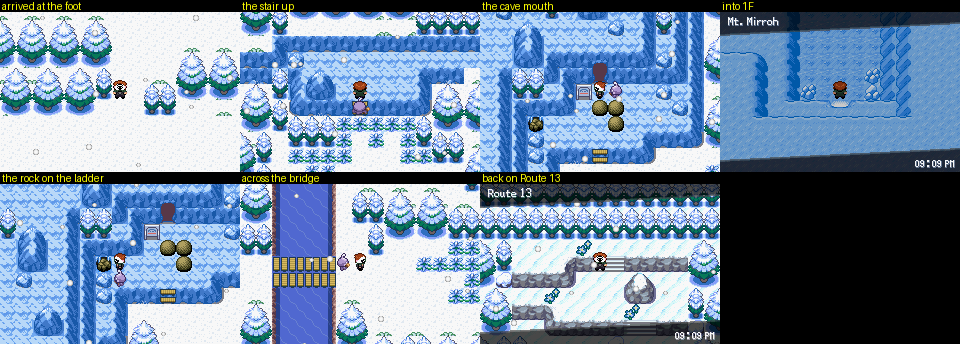
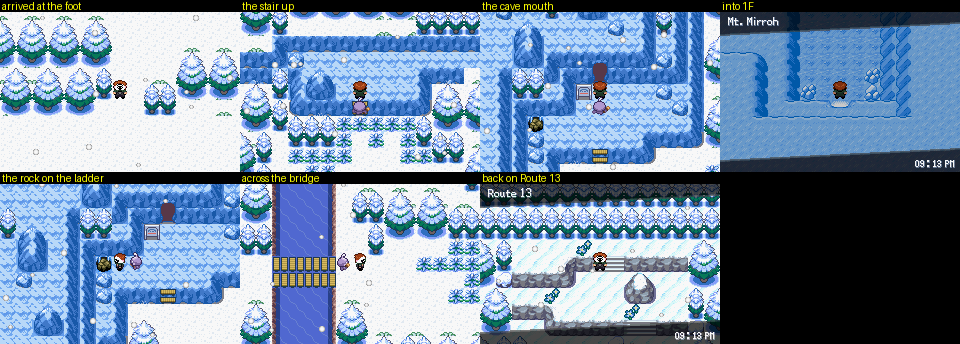
Mt. Mirroh exterior: Strength boulders removed from the cave mouth
Claude-Session: https://claude.ai/code/session_01FHXnfqnedTHLf5QFbB3MCU

diff --git a/tools/art/mt_mirroh/build_exterior.py b/tools/art/mt_mirroh/build_exterior.py
@@ -7,7 +7,7 @@ Ways in and out:
     (Route 13's own triggers: tools/art/route13/build_route13.py); no map connection (each has its own primary);
   - warp 0: the cave mouth (13, 10) into 1F (its warp 3; 1F's way out (55, 57) points back here, warp 0);
   - warp 1: the secret ladder (9, 13) down to B1F (its warp 0; B1F's way up points back here), under a Rock Smash rock.
-Objects: Dreamstone Mysteries' three Strength boulders by the cave mouth; the Rock Smash rock on the ladder. Its other
+Objects: the Rock Smash rock on the ladder (Dreamstone Mysteries' Strength boulders by the cave mouth removed, user). Its other
 people and items are stage 2 and 6 (left out here). Signs: the one by the cave mouth.
 Usage: python3 tools/art/mt_mirroh/build_exterior.py   (then build_route13.py; then make)
 """
@@ -37,7 +37,7 @@ def main():
         return int(beh[y, x])
     r = MB.build(img, None, None, W, H, walk, b)
     j = json.load(open(os.path.join(C, 'data/maps', NAME, 'map.json')))
-    keep_objs = [o for o in j['object_events'] if o['graphics_id'] == 'OBJ_EVENT_GFX_PUSHABLE_BOULDER']
+    keep_objs = []                       # (DM's Strength boulders by the mouth: gone, user 2026-11-23)
     rock = {'graphics_id': 'OBJ_EVENT_GFX_BREAKABLE_ROCK', 'x': E.SECRET[0], 'y': E.SECRET[1], 'elevation': 3,
             'movement_type': 'MOVEMENT_TYPE_LOOK_AROUND', 'movement_range_x': 0, 'movement_range_y': 0,
             'trainer_type': 'TRAINER_TYPE_NONE', 'trainer_sight_or_berry_tree_id': '0', 'script': 'EventScript_RockSmash', 'flag': '0'}

diff --git a/bible/20_chapter1_build.md b/bible/20_chapter1_build.md
@@ -204,7 +204,7 @@ Chapter 1 is the template: once its foundations (mechanics, maps, buildings, NPC
     - **Walked in the emulator** both ways: Hollow Hill → Mirroh Gate → hallway → Lower → stairs → Upper → north-west hallway (turned back) → skull gate → grounds → the lake and back, then all the way down again to Hollow Hill (`assets/mirroh_reference/ingame_mirroh_tour.png`).
     - Lamps, benches and snow flowers are solid. The reflecting ice is plain floor for now.
   - **Mt. Mirroh and Mirroh Peak, decided (user 2026-11-23):** **three maps: the outdoor climb, one cave floor, the summit.** The climb carries the Sword Cult trainers and, off the path, the hidden camp where acolytes torture a captured Beads cultist (8a); the cave floor runs through the mountain and holds **the scarred site of Alaric's Ting-Lu ritual** two years ago (bible 12); the summit plateau is the stage for Baradus, the hurt Eden, the shiny Crabominable and Kimaris's arrival (8b-8c). **The look (user):** a combination of Route 13's art (MonoMyth's northern routes and Fort Elderflower), **MonoMyth's mountains (like Mt. Thunder)**, **Dreamstone Mysteries' snowy and icy mountain terrain**, and **Crown's, if it has any**. **Clarified by the user the same evening: Mt. Mirroh is an expansion of Dreamstone Mysteries' own Mt. Mirroh.** Its overall design and layout (the exterior valley, the caves `MirrohInterior_1F/2F/B1F`, the Peak) are kept as the basis and expanded and re-dressed in the combined art, not replaced by a new design. (So the earlier "replaced, deleted later" applies only to whatever of the old maps the expansion leaves unused.)
-    - **Dreamstone Mysteries' Mt. Mirroh, as found (2026-11-23; `assets/mt_mirroh_reference/dm_mt_mirroh_overview.png`, exits marked):** **the exterior** (`MtMirrohExterior`, 60x80): a river valley climbing from Mirroh Base Camp at its foot (a map connection), bridges and pinewoods, a pushable-boulder puzzle at its head beside **the cave mouth** (13,10) **and a fighting dojo** (41,9); a **lower cave mouth** (11,65) into B1F. **1F** (60x60, an ice cave): **a rest stop with a nurse** (41,46), boulder puzzles, plank bridges, three ways up to **2F** (60x60, a loop of trainers and a boulder puzzle), **the exit onto the Peak** (3,12) with two Magma members beside it, and an exit to Lily Pond (a later area). **B1F** (60x80): one great icy hall reached from the lower mouth (Winterlily Hollow, later, warps into it). **The Peak** (`MirrohPeak`, 50x110): a pinewood snowfield at its foot (from 1F), terraced ice cliffs climbed past Magma grunts, **a long bridge across a frozen lake to the summit**, where huts stand and DM's climax took place (Maxie, a Deoxys triangle); an exit east to Winterlily Hollow (later). **The expansion's flow, decided by the user 2026-11-23:** **the exterior** (the river climb; **the fighting dojo removed**) leads into **1F**, where the player meets a few hikers and enemy trainers and, **near the stairs up to 2F, comes upon Sword Cult acolytes torturing a captured Beads cultist (8a)**: **the inciting incident** that drives the player to explore further, alongside the search for the first Dreamstone Shard. **2F is where the player finds the Dreamstone Shard.** From 2F, **the Peak**: at the summit (**abandoned ruins**: old stone huts and a broken shrine, where rumours placed the Shard) the player **beats the Sword Cult's unit boss there, a cardinal cultist**; **Baradus swoops in and kills him in front of the player for losing**: **his Crabominable crushes the cardinal, leaving a mangled corpse**, and then Baradus turns on the player (the curbstomp, 8b). Meant to make a big impact: how no-nonsense, ruthless and dangerous Baradus is. (The rest of Beat 8 stands unless the user changes it: the hurt Eden, Kimaris's arrival, 8d's aftermath.) **Alaric's Ting-Lu ritual site is B1F** (user 2026-11-23, correcting the earlier "delete B1F": "technically a B1F you need to make where the Ting-Lu ritual took place, but sealed in Chapter 1 and you can't access it"): **a ladder down beside the exterior's cave mouth, covered by a Rock Smash rock** (user 2026-11-23: right near the main entrance into the mountain; it replaces the earlier "caved-in spot on 1F"), broken open later with Rock Smash (a side quest later in the game), leads down to it. **B1F is made in stage 1** (its look: the scarred ritual site, expanding DM's B1F great icy hall) **and is unreachable in Chapter 1**; the exterior's lower cave mouth into it is removed (the only way in is the 1F cave-in); Winterlily Hollow's warps into it are settled when that later area is done. **Eden and Kimaris close the Peak scene as written** (user 2026-11-23). **The exterior, mock v1 (2026-11-23; `tools/art/mt_mirroh/exterior_mock.py`, `assets/mt_mirroh_reference/exterior_mock_v1.png`, beside DM's: `exterior_dm_vs_mock_v1.png`):** DM's own picture and collision as the base, so its layout stays exactly (its blue ice cliffs and plateaus, river, falls, bridges, stairs, meadows, the cave mouth at the head, the boulders); its pines become Route 13's (Fort Elderflower's, whole trees, staggered), its tall grass Route 13's ice grass, its stray green shrubs gone; the dojo pinewood, **Dreamstone Mysteries' drilling machine by the cave mouth removed** (user 2026-11-23), the lower cave mouth rock, the top edge closed; reachable from the foot path to the cave mouth. **Crossing without Surf (user 2026-11-23: "you need a bridge right here, otherwise it's impossible to get through the route without something like Surf"):** Dreamstone Mysteries' route from the foot drops down its one-way ledge (31-33,52) onto the river's east bank and then needed Surf; **a plank bridge** (DM's own, copied from its upper crossing) now spans the river at rows 55-56 (x 16-19). Since the ledge is one-way and nothing else led back to the foot (and Route 13), **a stair is cut into the ice band just north of the foot** (37,45; DM's own band stair) up onto the plateau above the meadow: the way back, and a second way up (**user 2026-11-23: keep both**; the ledge, meadow and bridge are the longer way round). Checked both ways: foot to cave mouth, and cave mouth back to the foot, with water counted as impassable. **The secret way down to B1F (user 2026-11-23: "right near the main entrance going into Mt. Mirroh proper"):** a ladder hole in the ice at (9,13), **where the user marked it on a screenshot**: the open ice west of the cave mouth, above two rocks against the cliff (Dreamstone Mysteries' own ladder hole from its 1F, cut onto the ice; a first try at (11,11) by the signpost was wrong), **covered by a Rock Smash rock** (an object); Rock Smash comes later in the game, so in Chapter 1 it stays shut (`assets/mt_mirroh_reference/exterior_secret_ladder.png`). **Built into the game and walked (2026-11-23; `tools/art/mt_mirroh/build_exterior.py`, walk `tools/playtest/mt_mirroh_exterior_walk.py`, `assets/mt_mirroh_reference/ingame_exterior_walk.png`):** `MAP_MT_MIRROH_EXTERIOR` keeps Dreamstone Mysteries' map id and name, redrawn on its own tileset pair (6 palettes, 202 tiles). **Route 13's Mt. Mirroh exit (its stair's top, x 8-9) fades onto the foot path (x 38-39)**, and the foot fades back (no map connection; the old one to Mirroh Base Camp is gone). Warp 0: the cave mouth into 1F (1F's way out points back to it); warp 1: the secret ladder to B1F, under the Rock Smash rock (an object; `EventScript_RockSmash`); DM's three Strength boulders kept; the signpost by the mouth kept; DM's other people and items left for stages 2 and 6. Weather: snow. **DM's wild encounters on the exterior (levels 26-30) were removed**: far above Chapter 1's level and stage 5's job, as on Route 13 (none yet). Walked in the game: Route 13 to the foot, up the stair, to the cave mouth, into 1F and out, the rock on the ladder, across the bridge, down the ledge, back to Route 13. Art reference for the expansion: **MonoMyth's Mt. Thunder** (its mapsecs 59, 73, 126: pale-blue ice caves, snowfields with pines, a diagonal mountain face, a summit; `assets/mt_mirroh_reference/monomyth_mt_thunder_maps.png`).
+    - **Dreamstone Mysteries' Mt. Mirroh, as found (2026-11-23; `assets/mt_mirroh_reference/dm_mt_mirroh_overview.png`, exits marked):** **the exterior** (`MtMirrohExterior`, 60x80): a river valley climbing from Mirroh Base Camp at its foot (a map connection), bridges and pinewoods, a pushable-boulder puzzle at its head beside **the cave mouth** (13,10) **and a fighting dojo** (41,9); a **lower cave mouth** (11,65) into B1F. **1F** (60x60, an ice cave): **a rest stop with a nurse** (41,46), boulder puzzles, plank bridges, three ways up to **2F** (60x60, a loop of trainers and a boulder puzzle), **the exit onto the Peak** (3,12) with two Magma members beside it, and an exit to Lily Pond (a later area). **B1F** (60x80): one great icy hall reached from the lower mouth (Winterlily Hollow, later, warps into it). **The Peak** (`MirrohPeak`, 50x110): a pinewood snowfield at its foot (from 1F), terraced ice cliffs climbed past Magma grunts, **a long bridge across a frozen lake to the summit**, where huts stand and DM's climax took place (Maxie, a Deoxys triangle); an exit east to Winterlily Hollow (later). **The expansion's flow, decided by the user 2026-11-23:** **the exterior** (the river climb; **the fighting dojo removed**) leads into **1F**, where the player meets a few hikers and enemy trainers and, **near the stairs up to 2F, comes upon Sword Cult acolytes torturing a captured Beads cultist (8a)**: **the inciting incident** that drives the player to explore further, alongside the search for the first Dreamstone Shard. **2F is where the player finds the Dreamstone Shard.** From 2F, **the Peak**: at the summit (**abandoned ruins**: old stone huts and a broken shrine, where rumours placed the Shard) the player **beats the Sword Cult's unit boss there, a cardinal cultist**; **Baradus swoops in and kills him in front of the player for losing**: **his Crabominable crushes the cardinal, leaving a mangled corpse**, and then Baradus turns on the player (the curbstomp, 8b). Meant to make a big impact: how no-nonsense, ruthless and dangerous Baradus is. (The rest of Beat 8 stands unless the user changes it: the hurt Eden, Kimaris's arrival, 8d's aftermath.) **Alaric's Ting-Lu ritual site is B1F** (user 2026-11-23, correcting the earlier "delete B1F": "technically a B1F you need to make where the Ting-Lu ritual took place, but sealed in Chapter 1 and you can't access it"): **a ladder down beside the exterior's cave mouth, covered by a Rock Smash rock** (user 2026-11-23: right near the main entrance into the mountain; it replaces the earlier "caved-in spot on 1F"), broken open later with Rock Smash (a side quest later in the game), leads down to it. **B1F is made in stage 1** (its look: the scarred ritual site, expanding DM's B1F great icy hall) **and is unreachable in Chapter 1**; the exterior's lower cave mouth into it is removed (the only way in is the 1F cave-in); Winterlily Hollow's warps into it are settled when that later area is done. **Eden and Kimaris close the Peak scene as written** (user 2026-11-23). **The exterior, mock v1 (2026-11-23; `tools/art/mt_mirroh/exterior_mock.py`, `assets/mt_mirroh_reference/exterior_mock_v1.png`, beside DM's: `exterior_dm_vs_mock_v1.png`):** DM's own picture and collision as the base, so its layout stays exactly (its blue ice cliffs and plateaus, river, falls, bridges, stairs, meadows, the cave mouth at the head, the boulders); its pines become Route 13's (Fort Elderflower's, whole trees, staggered), its tall grass Route 13's ice grass, its stray green shrubs gone; the dojo pinewood, **Dreamstone Mysteries' drilling machine by the cave mouth removed** (user 2026-11-23), the lower cave mouth rock, the top edge closed; reachable from the foot path to the cave mouth. **Crossing without Surf (user 2026-11-23: "you need a bridge right here, otherwise it's impossible to get through the route without something like Surf"):** Dreamstone Mysteries' route from the foot drops down its one-way ledge (31-33,52) onto the river's east bank and then needed Surf; **a plank bridge** (DM's own, copied from its upper crossing) now spans the river at rows 55-56 (x 16-19). Since the ledge is one-way and nothing else led back to the foot (and Route 13), **a stair is cut into the ice band just north of the foot** (37,45; DM's own band stair) up onto the plateau above the meadow: the way back, and a second way up (**user 2026-11-23: keep both**; the ledge, meadow and bridge are the longer way round). Checked both ways: foot to cave mouth, and cave mouth back to the foot, with water counted as impassable. **The secret way down to B1F (user 2026-11-23: "right near the main entrance going into Mt. Mirroh proper"):** a ladder hole in the ice at (9,13), **where the user marked it on a screenshot**: the open ice west of the cave mouth, above two rocks against the cliff (Dreamstone Mysteries' own ladder hole from its 1F, cut onto the ice; a first try at (11,11) by the signpost was wrong), **covered by a Rock Smash rock** (an object); Rock Smash comes later in the game, so in Chapter 1 it stays shut (`assets/mt_mirroh_reference/exterior_secret_ladder.png`). **Built into the game and walked (2026-11-23; `tools/art/mt_mirroh/build_exterior.py`, walk `tools/playtest/mt_mirroh_exterior_walk.py`, `assets/mt_mirroh_reference/ingame_exterior_walk.png`):** `MAP_MT_MIRROH_EXTERIOR` keeps Dreamstone Mysteries' map id and name, redrawn on its own tileset pair (6 palettes, 202 tiles). **Route 13's Mt. Mirroh exit (its stair's top, x 8-9) fades onto the foot path (x 38-39)**, and the foot fades back (no map connection; the old one to Mirroh Base Camp is gone). Warp 0: the cave mouth into 1F (1F's way out points back to it); warp 1: the secret ladder to B1F, under the Rock Smash rock (an object; `EventScript_RockSmash`); DM's three Strength boulders by the mouth **removed** (user 2026-11-23); the signpost by the mouth kept; DM's other people and items left for stages 2 and 6. Weather: snow. **DM's wild encounters on the exterior (levels 26-30) were removed**: far above Chapter 1's level and stage 5's job, as on Route 13 (none yet). Walked in the game: Route 13 to the foot, up the stair, to the cave mouth, into 1F and out, the rock on the ladder, across the bridge, down the ledge, back to Route 13. Art reference for the expansion: **MonoMyth's Mt. Thunder** (its mapsecs 59, 73, 126: pale-blue ice caves, snowfields with pines, a diagonal mountain face, a summit; `assets/mt_mirroh_reference/monomyth_mt_thunder_maps.png`).
   - **Mirroh Necropolis grounds built (2026-11-21):** `NecropolisGrounds` (44x50, `tools/art/necropolis/build_grounds.py`, from the approved mock).
     - The foot of the way in leads back to Mirroh's skull gate. The grand entrance's dark doorway leads down to the lake's landing, whose foot leads back up.
     - **Its foot shows the skull gate (user 2026-11-22: check the other gatehouses and entrances for what Route 13's foot did).** The way back to Mirroh had run off the bottom edge between the hedges into open snow (the border), and you came out before a gate you never saw. Now 44x59: below the mock, nine rows of Upper Mirroh as built (its x 22 on, its flank pines carried on past its edge): the city wall-walk running on to the gate's towers behind their spires, the skull gate's spired towers and crenellated top, the chapel and graves behind the wall. The road runs down between the spires (Upper's x 42-46 under the grounds' x 20-24), and its last snow row above the gate's top (row 53) is the warp, MonoMyth's convention. Foot warps 0-2 are x 21-23 (Upper's gate warps at x 43-45 lead to them in order), 3-4 are x 20 and 24. The grand entrance door is now warp 5; the lake's exits point to it. The south gatehouse's back door in Lower Mirroh was checked and was already right: the street's last two cells at the roof's peak. Walked in the game: skull gate to the grounds' foot, the grand entrance, the lake and back, the foot back to Upper.
